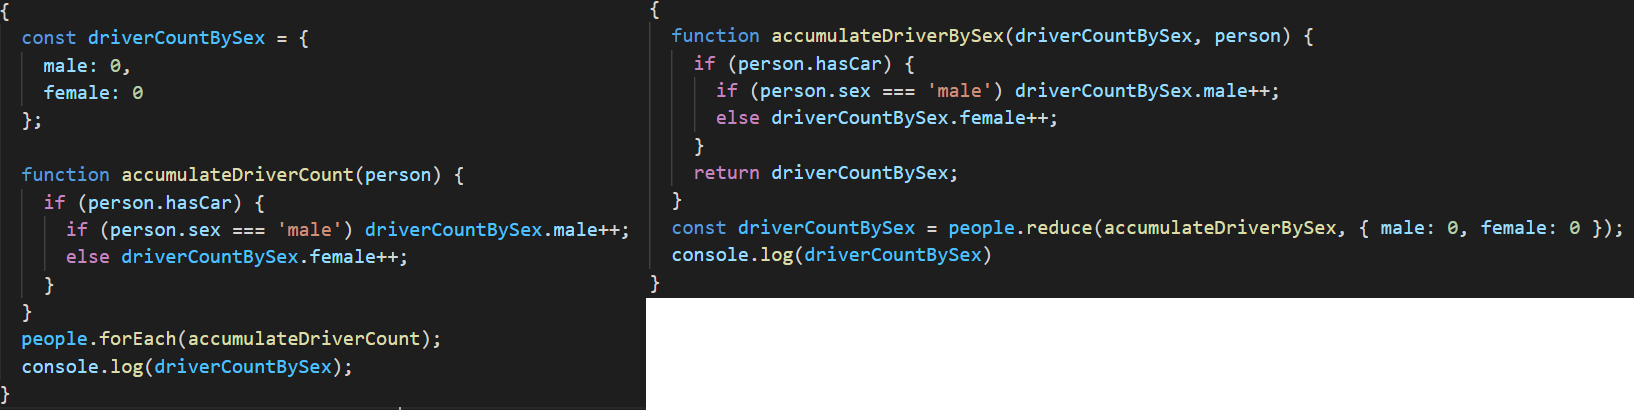
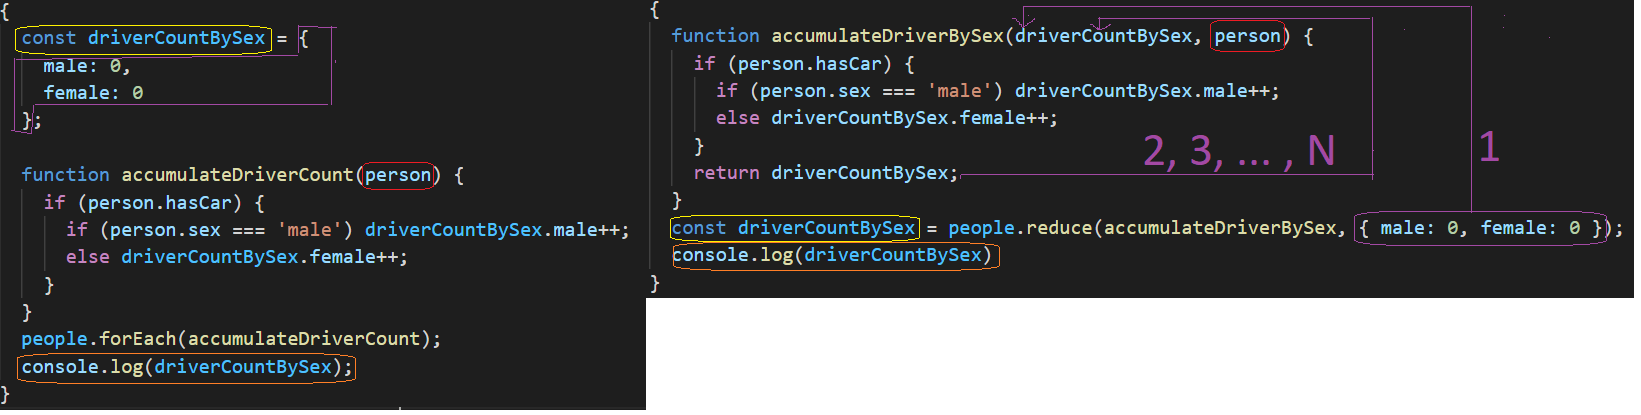
lesson 22: first object tasks

diff --git a/JavaScript/22 pamoka - žinių užtvirtinimas 1/function-tasks-array-iterative-1.js b/JavaScript/22 pamoka - žinių užtvirtinimas 1/function-tasks-array-iterative-1.js
@@ -230,24 +230,153 @@ console.groupCollapsed('10. Sukurkite objektą, kuriame būtų apskaičiuotas va
     const driverCountBySex = people.reduce(accumulateDriverBySex, { male: 0, female: 0 });
     console.log(driverCountBySex)
   }
+  // Dinamiškas sprendimas su Array.prototype.reduce
+  {
+    const people = [
+      {
+        name: 'Stalas',
+        surname: 'Komodauskas',
+        gender: 'male',
+        age: 26,
+        income: 1200,
+        married: false,
+        hasCar: true
+      },
+      {
+        name: 'Severija',
+        surname: 'Piktutytė',
+        gender: 'lesbian',
+        age: 26,
+        income: 1300,
+        married: false,
+        hasCar: true
+      },
+      {
+        name: 'Valdas',
+        surname: 'Vilktorinas',
+        gender: 'male',
+        age: 16,
+        income: 0,
+        married: false,
+        hasCar: false
+      },
+      {
+        name: 'Virginijus',
+        surname: 'Uostauskas',
+        gender: 'male',
+        age: 32,
+        income: 2400,
+        married: true,
+        hasCar: true
+      },
+      {
+        name: 'Samanta',
+        surname: 'Uostauskienė',
+        gender: 'female',
+        age: 28,
+        income: 1200,
+        married: true,
+        hasCar: true
+      },
+      {
+        name: 'Janina',
+        surname: 'Stalautinskienė',
+        gender: 'female',
+        age: 72,
+        income: 364,
+        married: false,
+        hasCar: false
+      }
+    ];
+
+    function accumulateDriverBySex(driverCountBySex, person) {
+      if (person.hasCar) {
+        if (!driverCountBySex[person.gender]) {
+          driverCountBySex[person.gender] = 0;
+        }
+        driverCountBySex[person.gender]++;
+      }
+      return driverCountBySex;
+    }
+
+    const driverCountBySex = people.reduce(accumulateDriverBySex, {});
+    console.log(driverCountBySex)
+  }
 }
 console.groupEnd();
 
 console.groupCollapsed('11. Performuokite žmonių masyvą, jog kiekvieno žmogaus savybė "income", taptų "salary"');
 {
-  // ...sprendimas ir spausdinimas
+  function changeIncomeToSalary({ income, ...other }) {
+    return {
+      ...other,
+      salary: income
+    };
+  }
+
+  const peopleWithSalary = people.map(changeIncomeToSalary);
+  console.table(people);
+  console.table(peopleWithSalary);
 }
 console.groupEnd();
 
-console.groupCollapsed('12. Suformuokite žmonių masyvą, kuriame nebūtų lyties, vardo ir pavardės');
+console.groupCollapsed('12. Suformuokite žmonių masyvą iš objektų, kuriuose nebūtų lyties, vardo ir pavardės');
 {
-  // ...sprendimas ir spausdinimas
+  function removeNameSurnameSex(person) {
+    const result = {};
+    for (const key in person) {
+      if (!['name', 'surname', 'sex'].includes(key)) {
+        result[key] = person[key];
+      }
+    }
+    return result;
+  }
+
+  function removeNameSurnameSex(person) {
+    const p = { ...person };
+    delete p.name;
+    delete p.surname;
+    delete p.sex;
+    return p;
+  }
+
+  function removeNameSurnameSex({ name, surname, sex, ...other }) {
+    return { ...other };
+  }
+
+  const result = people.map(removeNameSurnameSex);
+  console.table(result);
 }
 console.groupEnd();
 
-console.groupCollapsed('13. Suformuokite žmonių masyvą, kuriame "name" ir "surname" savybės, būtų pakeistos "fullname" savybe');
+console.groupCollapsed('13. Suformuokite žmonių masyvą iš objektų, kuriuose "name" ir "surname" savybės, būtų pakeistos "fullname" savybe');
 {
-  // ...sprendimas ir spausdinimas
+  function changePersonNameSurnameToFullname(person) {
+    const result = {};
+    for (const key in person) {
+      if (!['name', 'surname'].includes(key)) {
+        result[key] = person[key];
+      }
+    }
+    result.fullname = person.name + ' ' + person.surname;
+    return result;
+  }
+
+  function changePersonNameSurnameToFullname(person) {
+    const p = { ...person };
+    p.fullname = p.name + ' ' + p.surname
+    delete p.name;
+    delete p.surname;
+    return p;
+  }
+
+  function changePersonNameSurnameToFullname({ name, surname, ...other }) {
+    return {  fullname: name + ' ' + surname, ...other,};
+  }
+
+  const result = people.map(changePersonNameSurnameToFullname);
+  console.table(people);
+  console.table(result);
 }
 console.groupEnd();
 

diff --git a/JavaScript/22 pamoka - žinių užtvirtinimas 1/object-tasks.js b/JavaScript/22 pamoka - žinių užtvirtinimas 1/object-tasks.js
@@ -1,12 +1,29 @@
 console.groupCollapsed('1 - https://edabit.com/challenge/nuXdWHAoHv9y38sn7');
 {
+  function byPrice(a, b) {
+    return a.price - b.price;
+  }
+  const drinks = [
+    { name: "lemonade", price: 50 },
+    { name: "lime", price: 10 }
+  ];
+
+  drinks.sort(byPrice);
+  console.log(drinks);
 
 }
 console.groupEnd();
 
 console.groupCollapsed('2 - https://edabit.com/challenge/9KEKJG5PZTFmG3Zau');
 {
+  function addName(obj, propName, propValue) {
+    obj[propName] = propValue;
+    return obj;
+  }
 
+  console.log(addName({}, "Brutus", 300)); // ➞ { Brutus: 300 }
+  console.log(addName({ piano: 500 }, "Brutus", 400)); // ➞ { piano: 500, Brutus: 400 }
+  console.log(addName({ piano: 500, stereo: 300 }, "Caligula", 440)); // ➞ { piano: 500, stereo: 300, Caligula: 440 }
 }
 console.groupEnd();
 

diff --git a/JavaScript/JS praktika/function-tasks-array-iterative-1.js b/JavaScript/JS praktika/function-tasks-array-iterative-1.js
@@ -120,13 +120,13 @@ console.groupCollapsed('11. Performuokite žmonių masyvą, jog kiekvieno žmoga
 }
 console.groupEnd();
 
-console.groupCollapsed('12. Suformuokite žmonių masyvą, kuriame nebūtų lyties, vardo ir pavardės');
+console.groupCollapsed('12. Suformuokite žmonių masyvą iš objektų, kuriuose nebūtų lyties, vardo ir pavardės');
 {
   // ...sprendimas ir spausdinimas
 }
 console.groupEnd();
 
-console.groupCollapsed('13. Suformuokite žmonių masyvą, kuriame "name" ir "surname" savybės, būtų pakeistos "fullname" savybe');
+console.groupCollapsed('13. Suformuokite žmonių masyvą  iš objektų, kuriuose "name" ir "surname" savybės, būtų pakeistos "fullname" savybe');
 {
   // ...sprendimas ir spausdinimas
 }

diff --git a/JavaScript/22 pamoka - žinių užtvirtinimas 1/index.html b/JavaScript/22 pamoka - žinių užtvirtinimas 1/index.html
@@ -6,7 +6,8 @@
   <meta http-equiv="X-UA-Compatible" content="IE=edge">
   <meta name="viewport" content="width=device-width, initial-scale=1.0">
   <title>22 pamoka - žinių įtvirtinimas</title>
-  <script src="function-tasks-array-iterative-1.js" defer></script>
+  <script src="object-tasks.js" defer></script>
+  <!-- <script src="function-tasks-array-iterative-1.js" defer></script> -->
 </head>
 
 <body>
